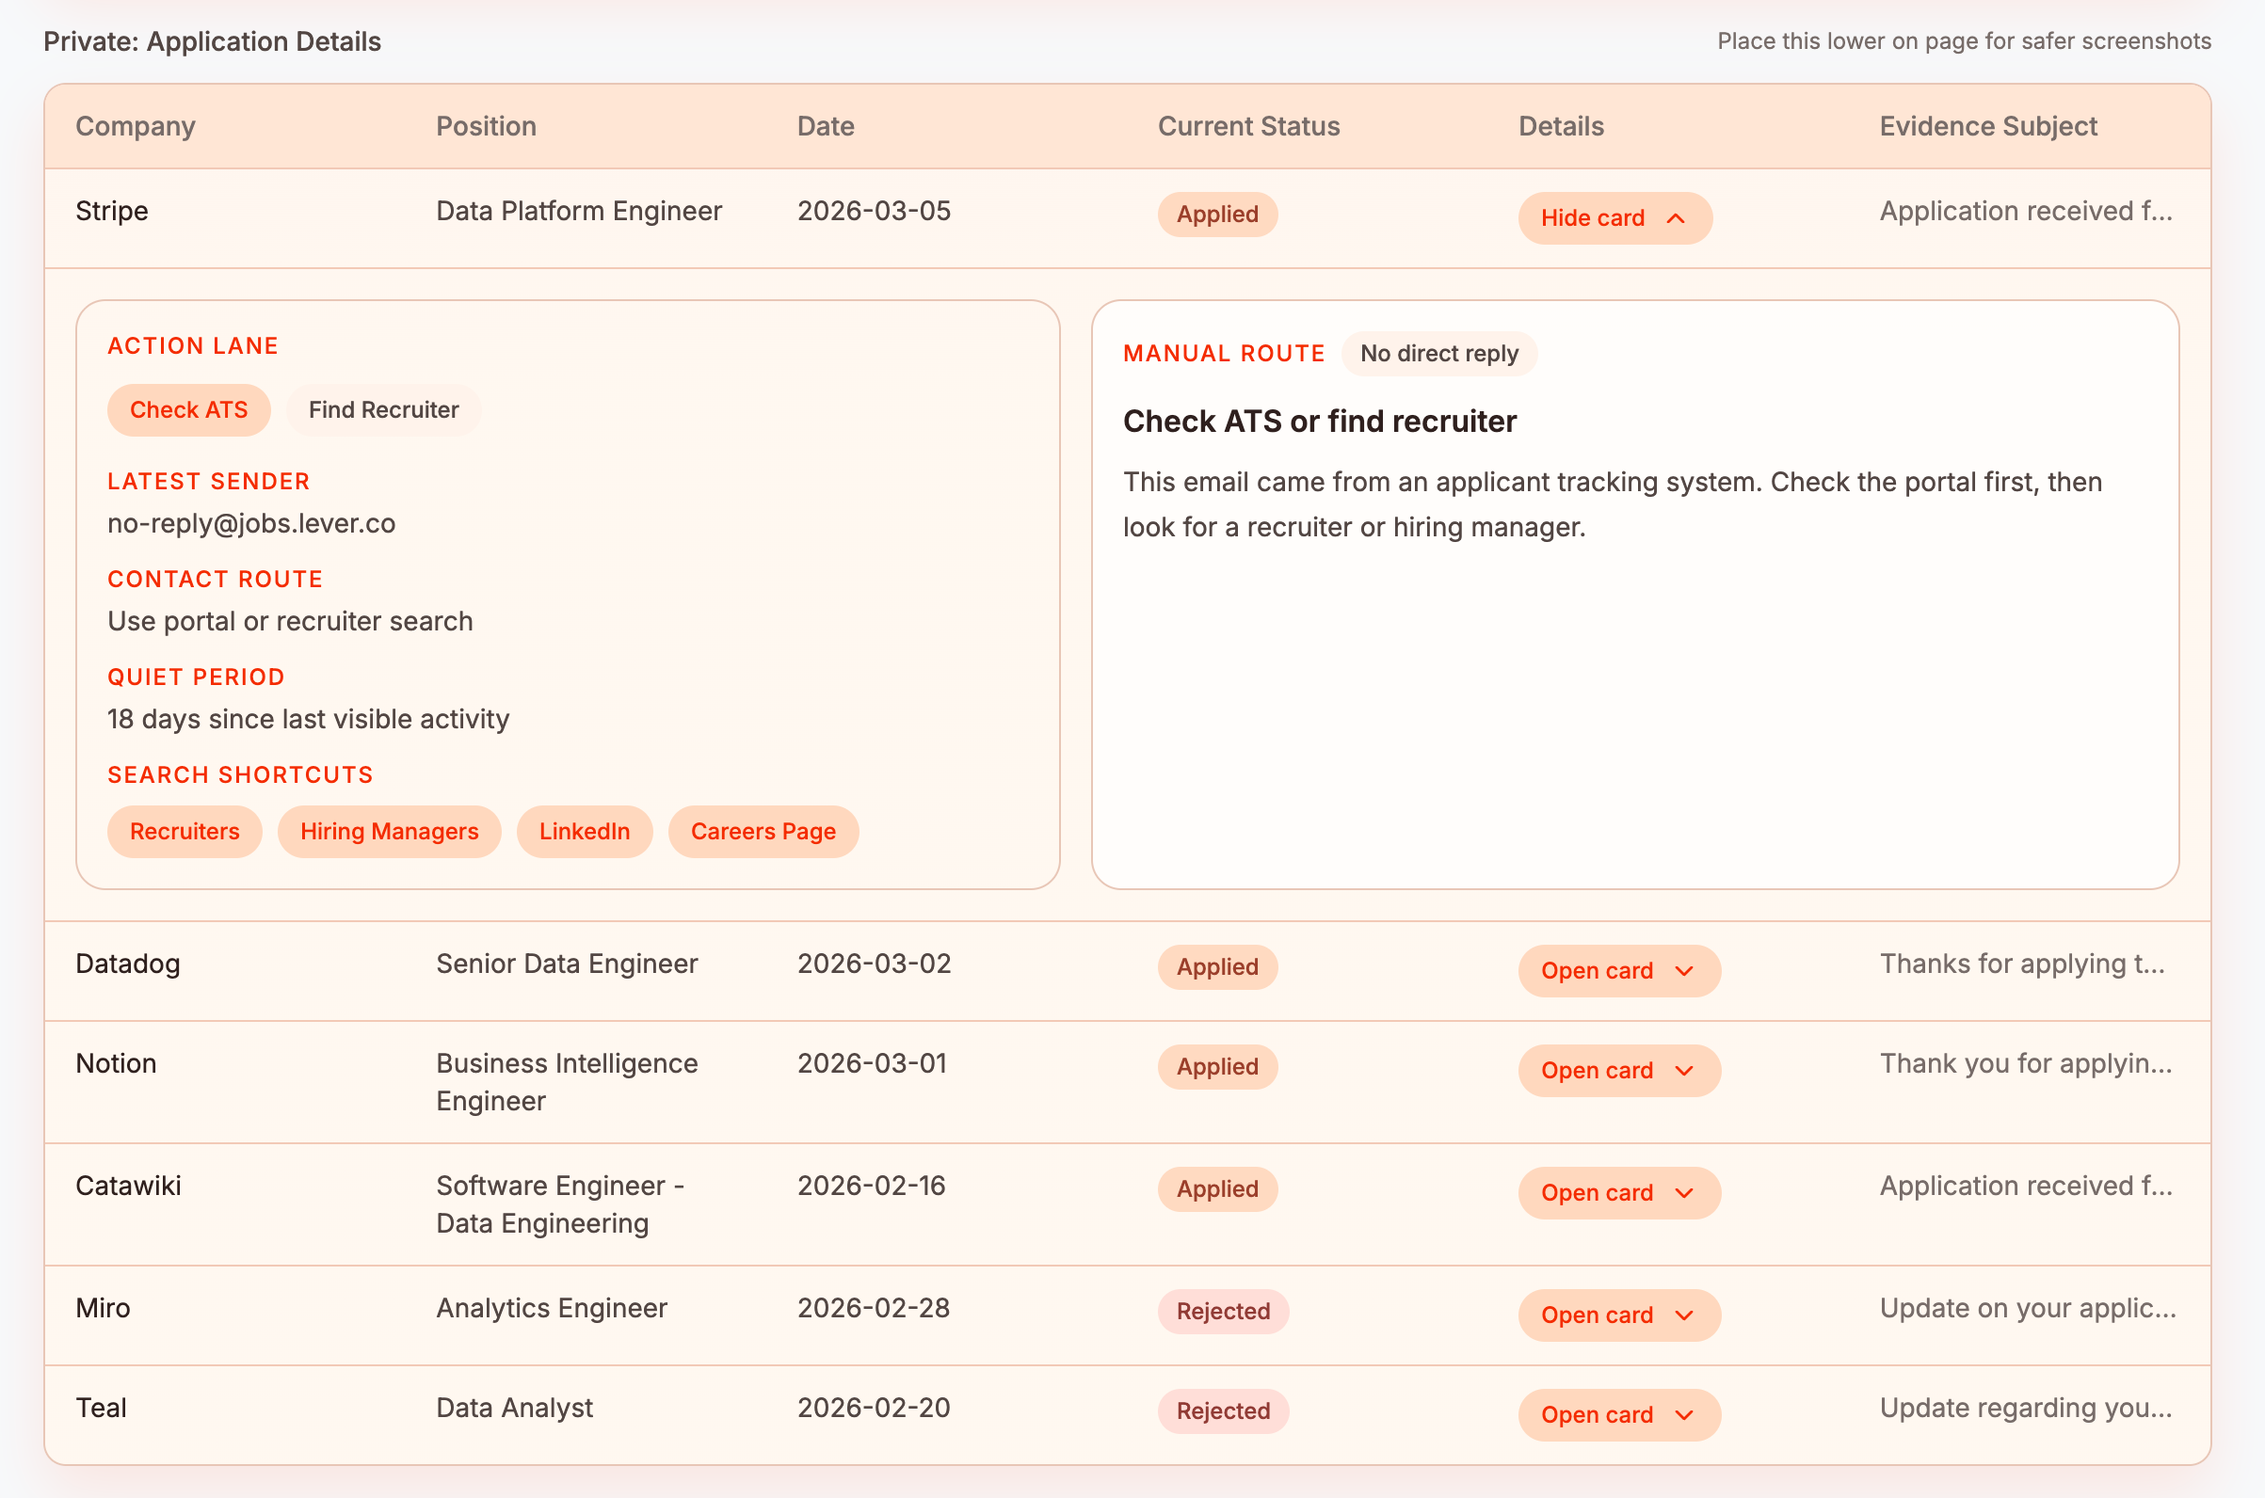
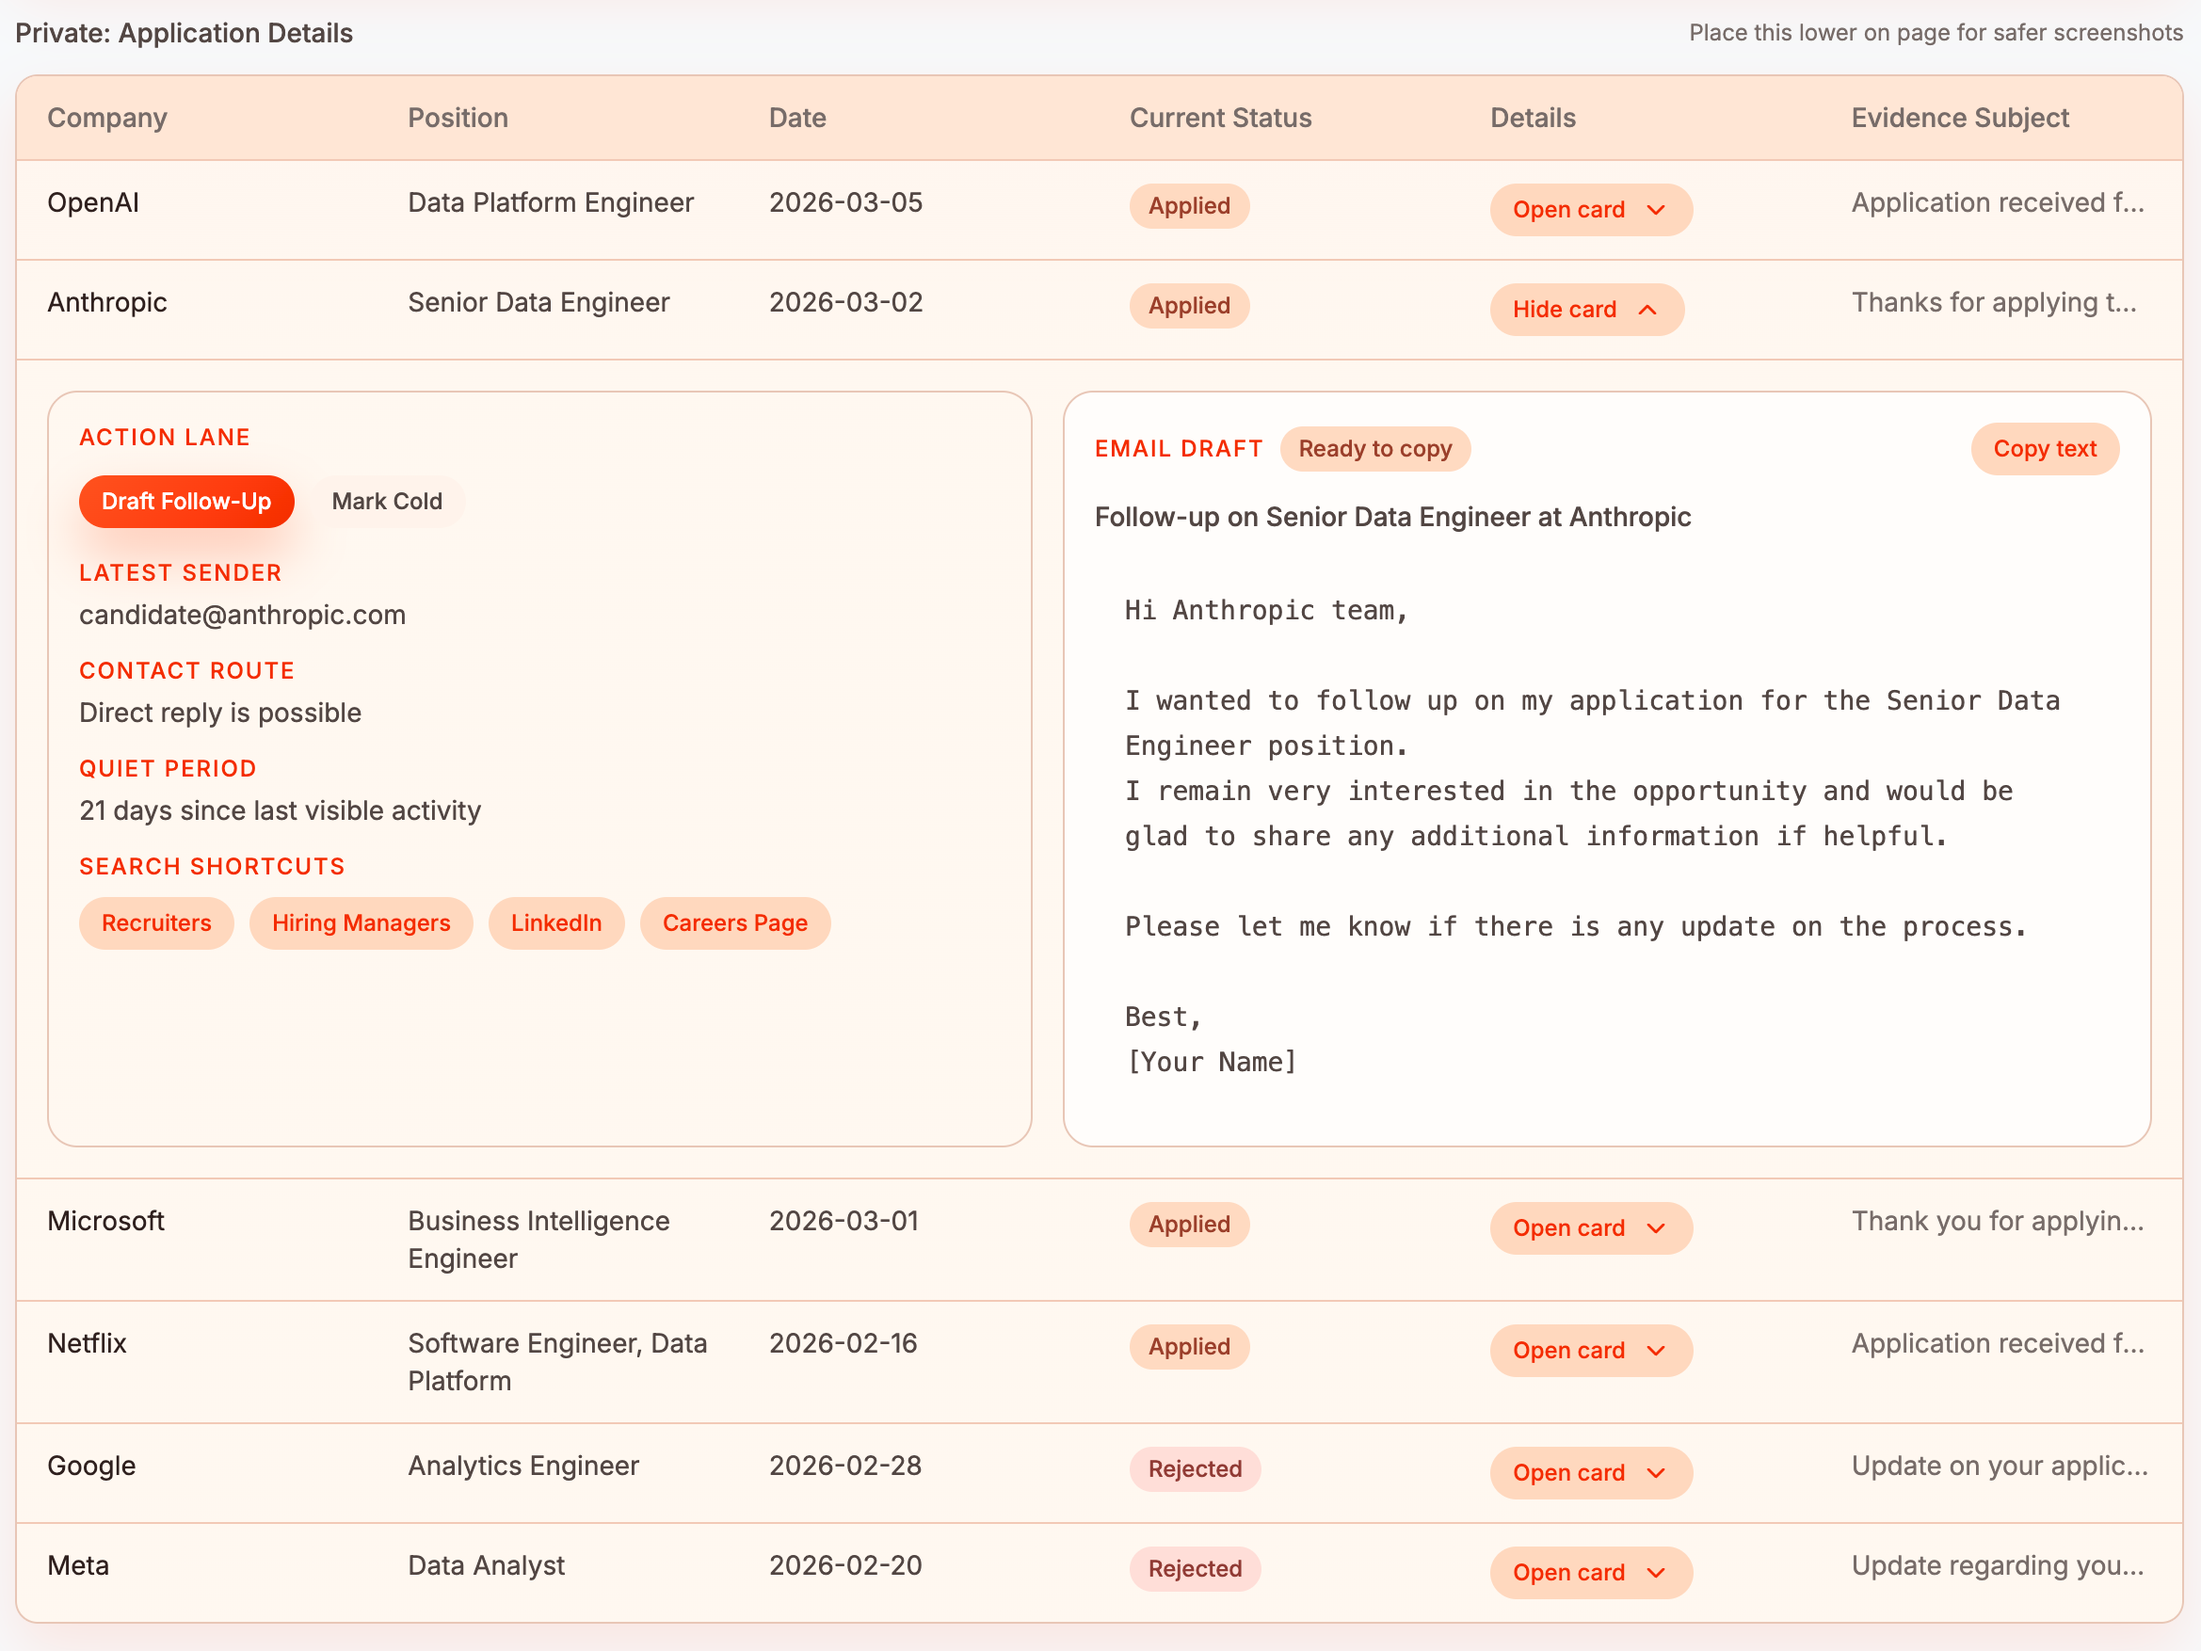
Update demo companies and README screenshot

diff --git a/frontend/src/App.tsx b/frontend/src/App.tsx
@@ -59,42 +59,42 @@ const EMPTY_SUMMARY: Summary = {
 
 const DEMO_APPLICATION_ROWS: ApplicationRow[] = [
   {
-    company: 'Catawiki',
-    position: 'Software Engineer - Data Engineering',
+    company: 'Netflix',
+    position: 'Software Engineer, Data Platform',
     applicationDate: '2026-02-16',
     currentStatus: 'Applied',
-    evidenceSubject: 'Application received for Software Engineer - Data Engineering',
+    evidenceSubject: 'Application received for Software Engineer, Data Platform',
   },
   {
-    company: 'Datadog',
+    company: 'Anthropic',
     position: 'Senior Data Engineer',
     applicationDate: '2026-03-02',
     currentStatus: 'Applied',
-    evidenceSubject: 'Thanks for applying to Datadog',
+    evidenceSubject: 'Thanks for applying to Anthropic',
   },
   {
-    company: 'Miro',
+    company: 'Google',
     position: 'Analytics Engineer',
     applicationDate: '2026-02-28',
     currentStatus: 'Rejected',
-    evidenceSubject: 'Update on your application at Miro',
+    evidenceSubject: 'Update on your application at Google',
   },
   {
-    company: 'Stripe',
+    company: 'OpenAI',
     position: 'Data Platform Engineer',
     applicationDate: '2026-03-05',
     currentStatus: 'Applied',
     evidenceSubject: 'Application received for Data Platform Engineer',
   },
   {
-    company: 'Notion',
+    company: 'Microsoft',
     position: 'Business Intelligence Engineer',
     applicationDate: '2026-03-01',
     currentStatus: 'Applied',
-    evidenceSubject: 'Thank you for applying to Notion',
+    evidenceSubject: 'Thank you for applying to Microsoft',
   },
   {
-    company: 'Teal',
+    company: 'Meta',
     position: 'Data Analyst',
     applicationDate: '2026-02-20',
     currentStatus: 'Rejected',
@@ -105,59 +105,59 @@ const DEMO_APPLICATION_ROWS: ApplicationRow[] = [
 const DEMO_MESSAGE_ROWS: MessageRow[] = [
   {
     date: '2026-02-16',
-    company: 'Catawiki',
+    company: 'Netflix',
     eventType: 'application',
-    subject: 'Application received for Software Engineer - Data Engineering',
-    fromEmail: 'noreply@catawiki.com',
+    subject: 'Application received for Software Engineer, Data Platform',
+    fromEmail: 'noreply@jobs.netflix.com',
   },
   {
     date: '2026-03-02',
-    company: 'Datadog',
+    company: 'Anthropic',
     eventType: 'application',
-    subject: 'Thanks for applying to Datadog',
-    fromEmail: 'candidate@datadoghq.com',
+    subject: 'Thanks for applying to Anthropic',
+    fromEmail: 'candidate@anthropic.com',
   },
   {
     date: '2026-02-28',
-    company: 'Miro',
+    company: 'Google',
     eventType: 'application',
     subject: 'Application received',
-    fromEmail: 'noreply@miro.com',
+    fromEmail: 'noreply@google.com',
   },
   {
     date: '2026-03-04',
-    company: 'Miro',
+    company: 'Google',
     eventType: 'rejection',
-    subject: 'Update on your application at Miro',
-    fromEmail: 'noreply@miro.com',
+    subject: 'Update on your application at Google',
+    fromEmail: 'noreply@google.com',
   },
   {
     date: '2026-03-05',
-    company: 'Stripe',
+    company: 'OpenAI',
     eventType: 'application',
     subject: 'Application received for Data Platform Engineer',
     fromEmail: 'no-reply@jobs.lever.co',
   },
   {
     date: '2026-03-01',
-    company: 'Notion',
+    company: 'Microsoft',
     eventType: 'application',
-    subject: 'Thank you for applying to Notion',
+    subject: 'Thank you for applying to Microsoft',
     fromEmail: 'notifications@ashbyhq.com',
   },
   {
     date: '2026-02-20',
-    company: 'Teal',
+    company: 'Meta',
     eventType: 'application',
     subject: 'Application received',
-    fromEmail: 'hello@tealhq.com',
+    fromEmail: 'careers@meta.com',
   },
   {
     date: '2026-02-25',
-    company: 'Teal',
+    company: 'Meta',
     eventType: 'rejection',
     subject: 'Update regarding your application',
-    fromEmail: 'hello@tealhq.com',
+    fromEmail: 'careers@meta.com',
   },
 ]
 
@@ -696,7 +696,7 @@ export default function App() {
               </button>
             </div>
             <p className="warm-kicker mt-4 text-xs font-medium uppercase tracking-wide">Step 2. Connect selected provider</p>
-            <div className="mt-2">
+            <div className="mt-2 flex flex-col items-start gap-3 sm:flex-row sm:items-center">
               <button
                 type="button"
                 onClick={onConnect}
@@ -706,9 +706,6 @@ export default function App() {
                 {isConnecting ? <Loader2 className="h-4 w-4 animate-spin" /> : null}
                 {isConnecting ? `Connecting ${providerLabel(selectedProvider)}...` : `Connect ${providerLabel(selectedProvider)}`}
               </button>
-            </div>
-
-            <div className="mt-4">
               <span
                 className={`inline-flex max-w-full items-center gap-1.5 rounded-lg px-2.5 py-1.5 text-xs font-medium leading-5 ${
                   isActiveConnection ? 'warm-pill-success' : 'warm-pill-info'
